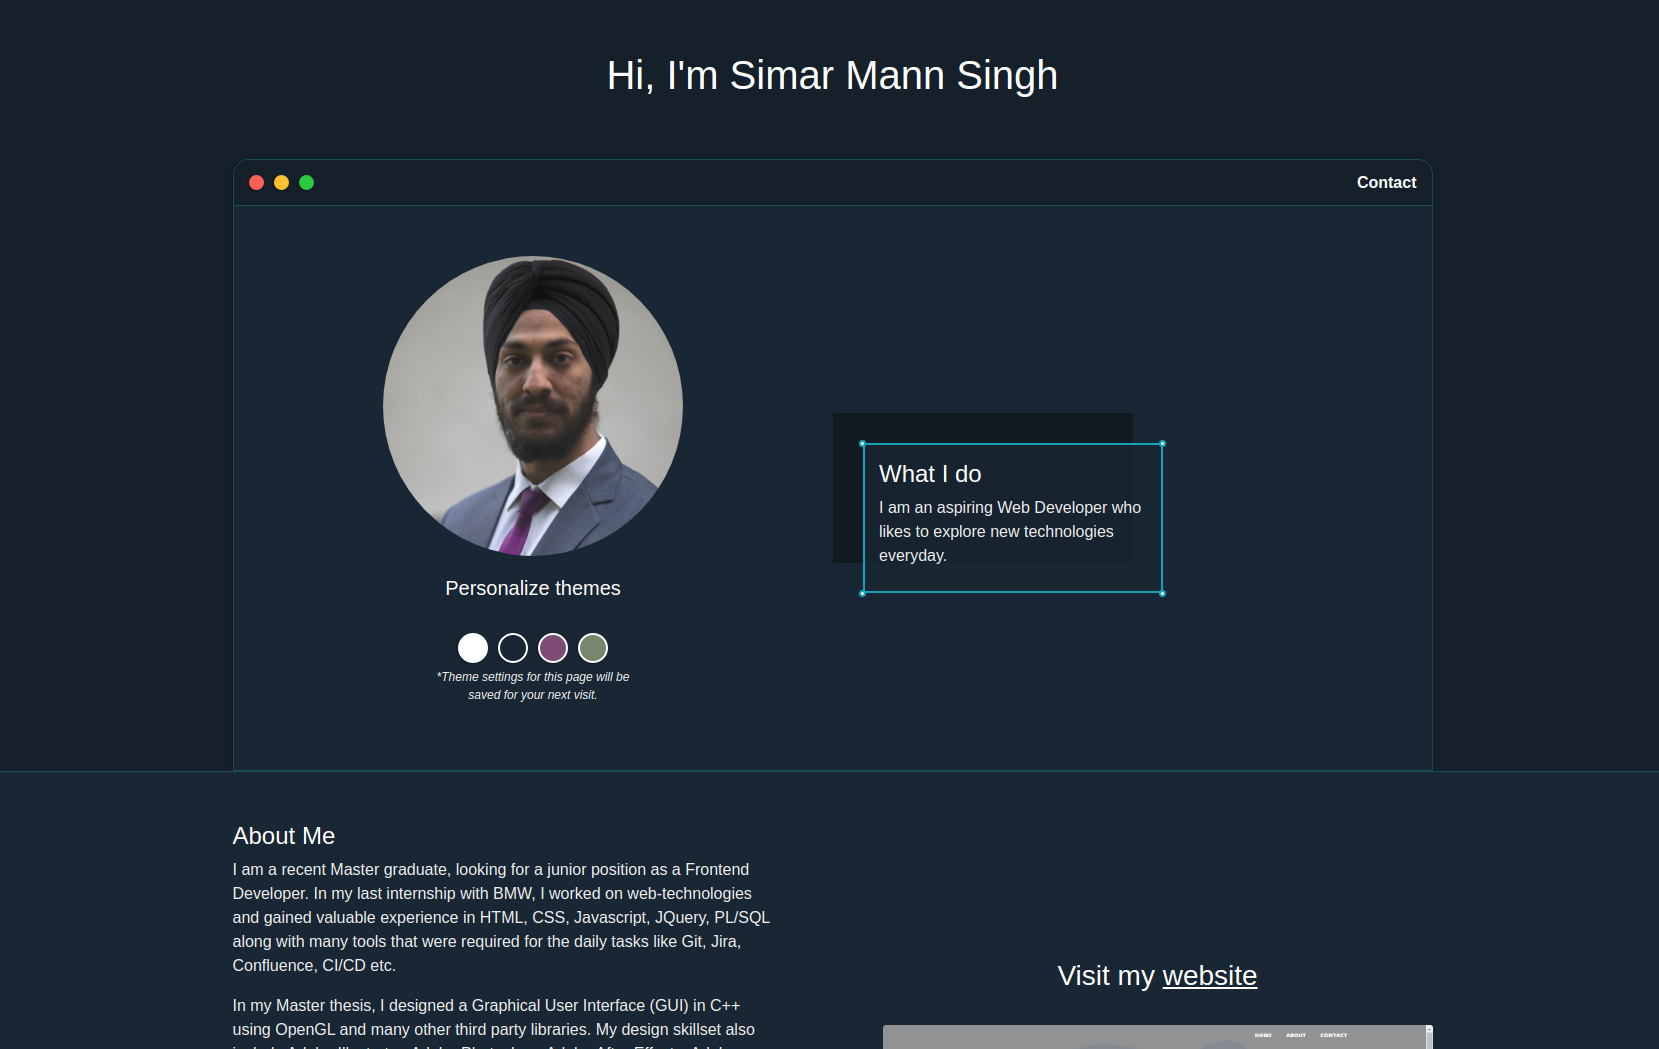
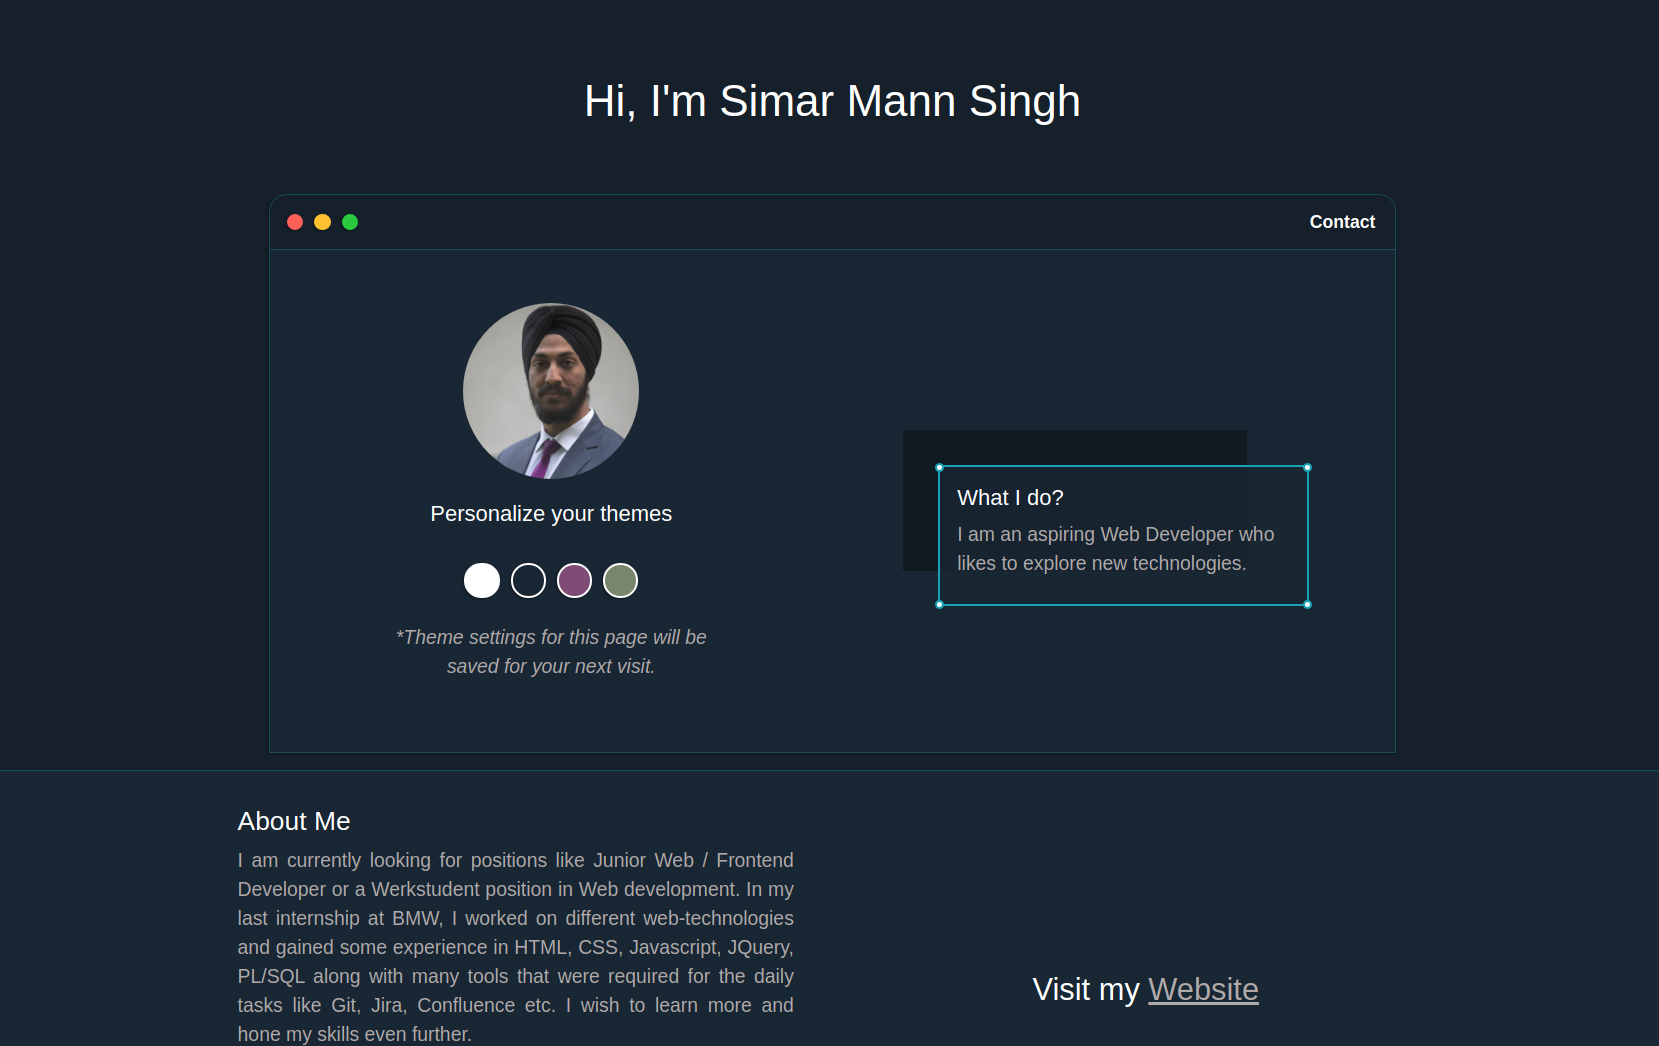
Updating content.

diff --git a/index.html b/index.html
@@ -84,13 +84,11 @@
         <div class="about-wrapper">
             <div class="about-me">
                 <h4>About Me</h4>
-                <p>I am a recent Master graduate, currently looking for a junior Web Developer position. In my last internship at BMW, I worked on different web-technologies and gained some experience in HTML, CSS, Javascript, JQuery, PL/SQL along with many tools that were required for the daily tasks like Git, Jira, Confluence etc. </p>
-                <p>In my Master thesis, I designed a Graphical User Interface (GUI) to display radar data to the user. I programmed the GUI using C++ along with OpenGL and many other third party libraries such as FreeType, LwIP, Winsock etc. My design skillset also include Adobe Illustrator, Adobe Photoshop, Adobe After Effects, Adobe Premiere pro, Maxon Cinema 4D and Camtasia Studio. I prefer to design my own illustrations in Adobe Illustrator CS6.</p>
-                <p>I also use services like Figma, unDraw, unSplash and picsum.photos for my projects as all these services offer affordable and licence-free material / service which I can afford at the moment. </p>
-                <p>In past, I've also worked on projects using C++, OpenGL, Oracle-Apex, MATLAB, Wireshark etc. 
-                    <br><br>
-                    <a target="_blank" style="font-weight: 900;" href="./SimarMann_lebenslauf.pdf">Download resume</a>
-                </p>
+                <p>I am currently looking for positions like Junior Web / Frontend  Developer or a Werkstudent position in Web development. In my last internship at BMW, I worked on different web-technologies and gained some experience in HTML, CSS, Javascript, JQuery, PL/SQL along with many tools that were required for the daily tasks like Git, Jira, Confluence etc. I wish to learn more and hone my skills even further.</p>
+                <p>In my Master thesis, I designed a Graphical User Interface (GUI) to display radar data to the user. I programmed the GUI using C++ along with OpenGL and many other third party libraries such as FreeType, LwIP, Winsock etc. My design skillset includes Adobe Illustrator, Adobe Photoshop, Adobe After Effects, Adobe Premiere pro, Maxon Cinema 4D and Camtasia Studio.</p>
+                <p>I often use services like Figma, unDraw, unSplash and picsum.photos for my projects as all these services offer affordable and licence-free material / service which I can afford at the moment. </p>
+                <a target="_blank" style="font-weight: 900;" href="./SimarMann_lebenslauf.pdf">Download resume</a>
+                
             </div>
 
             <div class="skill-wrapper">
@@ -100,14 +98,14 @@
                         <li>HTML</li>
                         <li>CSS</li>
                         <li>JavaScript</li>
-                        <li>JQuery</li>                    
+                        <li>Reactjs</li>                    
                     </ul>
                     
                     <ul>
+                        <li>Nodejs</li>
                         <li>Git</li>
-                        <li>JIRA</li>
-                        <li>Confluence</li>
-                        <li>CI/CD</li>
+                        <li>Jira</li>
+                        <li>Confluence</li>                        
                     </ul>
 
                     <ul>
@@ -180,7 +178,7 @@
 <section class="sec1">
     <div class="main-container" > 
         <div class="footer">
-            <p> Made with <i class="fas fa-heart"></i> and <i class="fas fa-coffee"></i> by Simar</p>            
+            <p> Made with <i class="fas fa-heart"></i> and <i class="fas fa-coffee"></i> by <a href="https://github.com/simarmannsingh" style="text-decoration: underline;" target="_blank">Simar</a> </p>            
         </div>
     </div>
 </section>

diff --git a/style.css b/style.css
@@ -31,7 +31,7 @@ h1, h2, h3, h4, h5, h6, strong {
   font-family: Helvetica;
 }
 
-p, li, span, label, input, textarea {
+p, li, span, label, input, textarea, p > a {
   color: var(--secondaryText);
   font-family: Helvetica;
 }
@@ -447,6 +447,11 @@ h6 { font-size: 16px;} */
 
 @media screen and (min-width: 1200px) {  
 
+.main-container{    
+    padding-left: 3.5em;
+    padding-right: 3.5em;
+}
+
 .intro {
     display: grid;
     grid-template-columns: 1fr 1fr;
@@ -496,6 +501,12 @@ h6 { font-size: 16px;} */
 /*========================================================================*/
 
 @media screen and (min-width: 1600px) {
+
+    .main-container{    
+        padding-left: 8em;
+        padding-right: 8em;
+    }
+
     .card-img{        
         font-size: 1.2em !important;
    }
